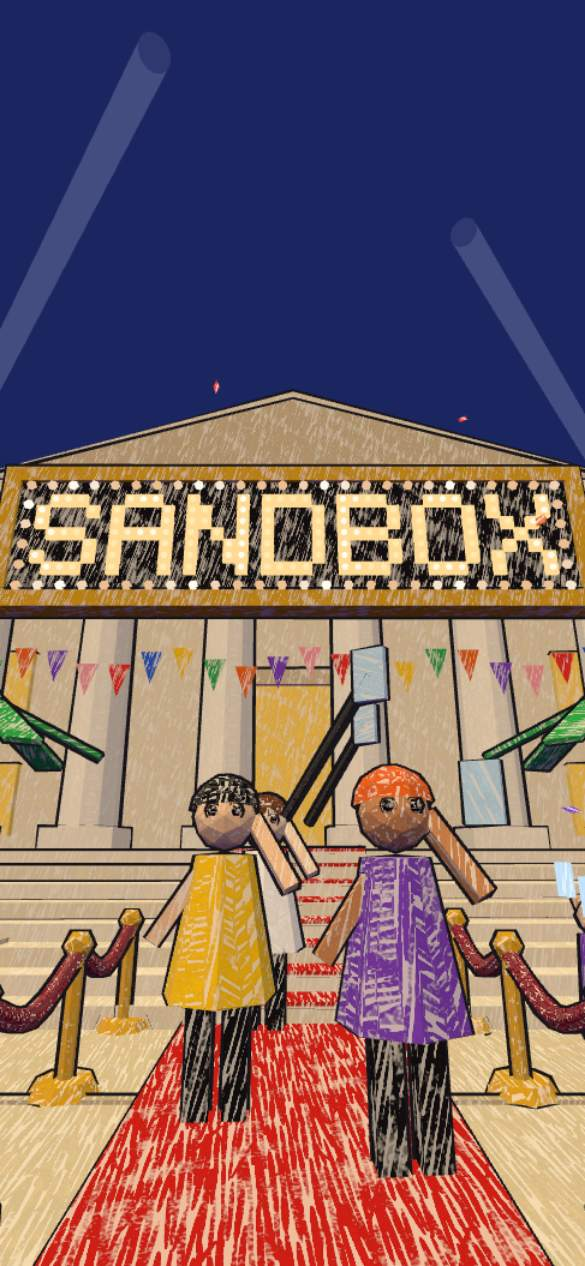
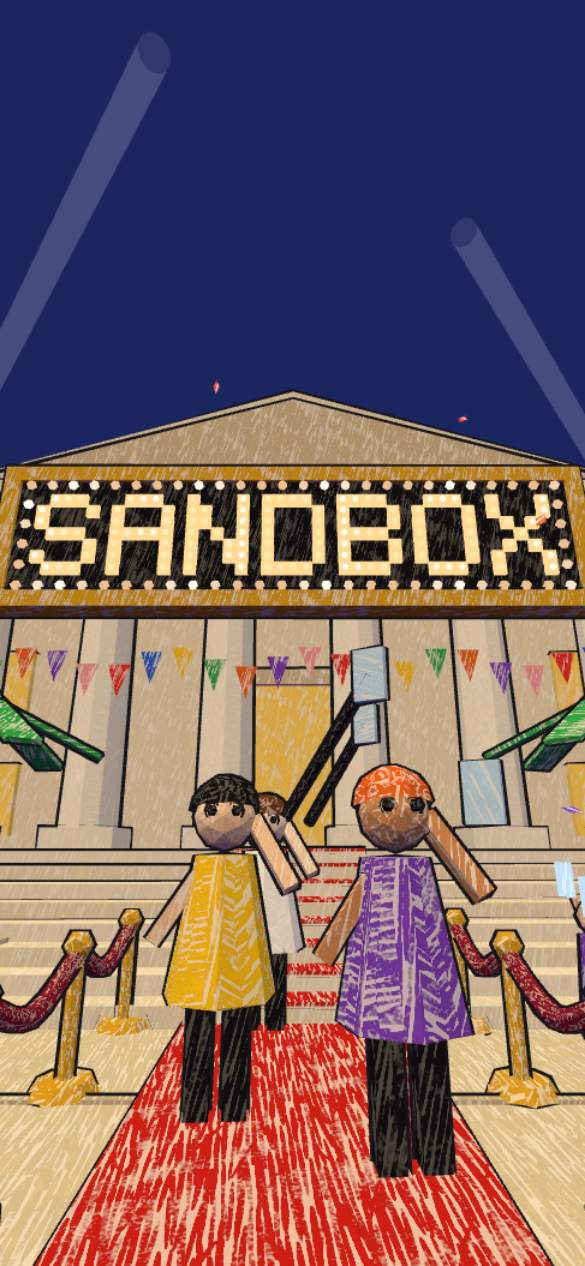
fix: review findings for crayon on the models
- Crowd members with their arms down hide the arms whole (scale 0); the
  squashed strip they used to be got an ink outline at shoulder height.
- The stroke texture is sampled with explicit gradients from the position,
  so switching projection plane or face angle on rounded things (bodies,
  trunks) no longer drops to the blurriest mip and draws a seam line.
- Dark colours (the marquee's backing, eyes, tyres) keep only a faint paper
  tint, so SANDBOX stands out on a dark board again.
- The flat-shape hull test exercises Batch for real. Posters re-rendered.

diff --git a/src/hero/crayon.js b/src/hero/crayon.js
@@ -214,7 +214,10 @@ uniform vec4 uCrayonVariant;
 uniform vec3 uCrayonPaper;
 varying vec3 vCrayonPos;
 varying vec3 vCrayonNormal;
-float crayonAt(vec2 uv) { return dot(texture2D(tCrayon, uv), uCrayonVariant); }
+// Sampled with explicit gradients (from the position, which is continuous), so
+// a switch between projection planes or face angles doesn't make the GPU pick
+// the blurriest mip along it and draw a seam.
+float crayonAt(vec2 uv, vec2 gx, vec2 gy) { return dot(textureGrad(tCrayon, uv, gx, gy), uCrayonVariant); }
 vec2 crayonTurn(vec2 v, float a) { float c = cos(a), s = sin(a); return vec2(c * v.x - s * v.y, s * v.x + c * v.y); }
 // Each face orientation colours in at its own angle, as a hand would.
 float crayonAngle(vec3 n) {
@@ -224,25 +227,36 @@ float crayonAngle(vec3 n) {
 // The strokes, pressed harder and lighter in broad patches (the same texture,
 // far bigger and turned, so blurred by its mipmaps), which also keeps a big
 // wall from showing the tile.
-float crayonPlane(vec2 p, float a) {
-  vec2 q = crayonTurn(p, a) / ${STROKE_TILE.toFixed(3)};
-  return crayonAt(q) * mix(0.72, 1.18, crayonAt(crayonTurn(q, 1.9) * 0.11 + 0.37));
+float crayonPlane(vec2 p, vec2 px, vec2 py, float a) {
+  float k = 1.0 / ${STROKE_TILE.toFixed(3)};
+  vec2 q = crayonTurn(p, a) * k;
+  vec2 gx = crayonTurn(px, a) * k;
+  vec2 gy = crayonTurn(py, a) * k;
+  float pressure = crayonAt(crayonTurn(q, 1.9) * 0.11 + 0.37, crayonTurn(gx, 1.9) * 0.11, crayonTurn(gy, 1.9) * 0.11);
+  return crayonAt(q, gx, gy) * mix(0.72, 1.18, pressure);
 }
 float crayonWax(vec3 p, vec3 n) {
   vec3 an = abs(n);
   float a = crayonAngle(n);
+  vec3 dx = dFdx(p);
+  vec3 dy = dFdy(p);
   #ifdef CRAYON_LITE
   // Phones: only the plane the surface faces most.
   bool onX = an.x >= an.y && an.x >= an.z;
   bool onY = !onX && an.y >= an.z;
-  return crayonPlane(onX ? p.zy : onY ? p.xz : p.xy, a + (onX ? 0.0 : onY ? 0.7 : 1.4));
+  return crayonPlane(
+    onX ? p.zy : onY ? p.xz : p.xy,
+    onX ? dx.zy : onY ? dx.xz : dx.xy,
+    onX ? dy.zy : onY ? dy.xz : dy.xy,
+    a + (onX ? 0.0 : onY ? 0.7 : 1.4)
+  );
   #else
   vec3 w = an * an * an * an;
   w /= w.x + w.y + w.z + 1e-6;
   float v = 0.0;
-  if (w.x > 0.01) v += w.x * crayonPlane(p.zy, a);
-  if (w.y > 0.01) v += w.y * crayonPlane(p.xz, a + 0.7);
-  if (w.z > 0.01) v += w.z * crayonPlane(p.xy, a + 1.4);
+  if (w.x > 0.01) v += w.x * crayonPlane(p.zy, dx.zy, dy.zy, a);
+  if (w.y > 0.01) v += w.y * crayonPlane(p.xz, dx.xz, dy.xz, a + 0.7);
+  if (w.z > 0.01) v += w.z * crayonPlane(p.xy, dx.xy, dy.xy, a + 1.4);
   return v / max(0.01, (w.x > 0.01 ? w.x : 0.0) + (w.y > 0.01 ? w.y : 0.0) + (w.z > 0.01 ? w.z : 0.0));
   #endif
 }
@@ -254,7 +268,9 @@ const fragmentMain = /* glsl */ `
   vec3 cn = vCrayonNormal;
   float wax = crayonWax(vCrayonPos, length(cn) > 0.0 ? normalize(cn) : vec3(0.0, 0.0, 1.0));
   float covered = smoothstep(0.2, 0.55, wax);
-  vec3 paper = mix(diffuseColor.rgb, uCrayonPaper, 0.6);
+  // Dark colours (the marquee's backing, eyes, tyres) stay dark: the paper barely shows through them.
+  float tone = dot(diffuseColor.rgb, vec3(0.2126, 0.7152, 0.0722));
+  vec3 paper = mix(diffuseColor.rgb, uCrayonPaper, mix(0.1, 0.6, smoothstep(0.01, 0.12, tone)));
   diffuseColor.rgb = mix(paper, diffuseColor.rgb * (0.82 + 0.3 * wax), covered);
 }
 `;

diff --git a/src/hero/scene.js b/src/hero/scene.js
@@ -112,7 +112,7 @@ const LIGHT_BEAM = {
  * The solid parts (not flat shapes, which have no inside) also make up the
  * mesh's ink outline hull (userData.hull, drawn by crayon.js).
  */
-class Batch {
+export class Batch {
   /** @type {BufferGeometry[]} */
   parts = [];
   /** @type {BufferGeometry[]} */
@@ -1155,8 +1155,9 @@ function crowd(count, paparazzi, random) {
       s.set(f.h, f.h, f.h);
       body.setMatrixAt(i, m.compose(p.set(f.x, hop, f.z), q, s));
       head.setMatrixAt(i, m.compose(p.set(f.x, hop + 1.55 * f.h, f.z), q, s));
-      const armsUp = f.arms || f.camera ? 1 : 0.0001;
-      arms.setMatrixAt(i, m.compose(p.set(f.x, hop + 1.15 * f.h, f.z), q, s.set(f.h, f.h * armsUp, f.h)));
+      // Arms down are hidden whole (scale 0): a squashed strip would still get an outline.
+      const armsUp = f.arms || f.camera ? f.h : 0;
+      arms.setMatrixAt(i, m.compose(p.set(f.x, hop + 1.15 * f.h, f.z), q, s.set(armsUp, armsUp, armsUp)));
       if (f.phone || f.camera) {
         const lift = f.camera ? 1.62 : 1.9 + 0.25 * Math.sin(t * 1.3 + f.phase);
         p.set(f.x + Math.sin(f.ry) * 0.38, hop + lift * f.h, f.z + Math.cos(f.ry) * 0.38);
